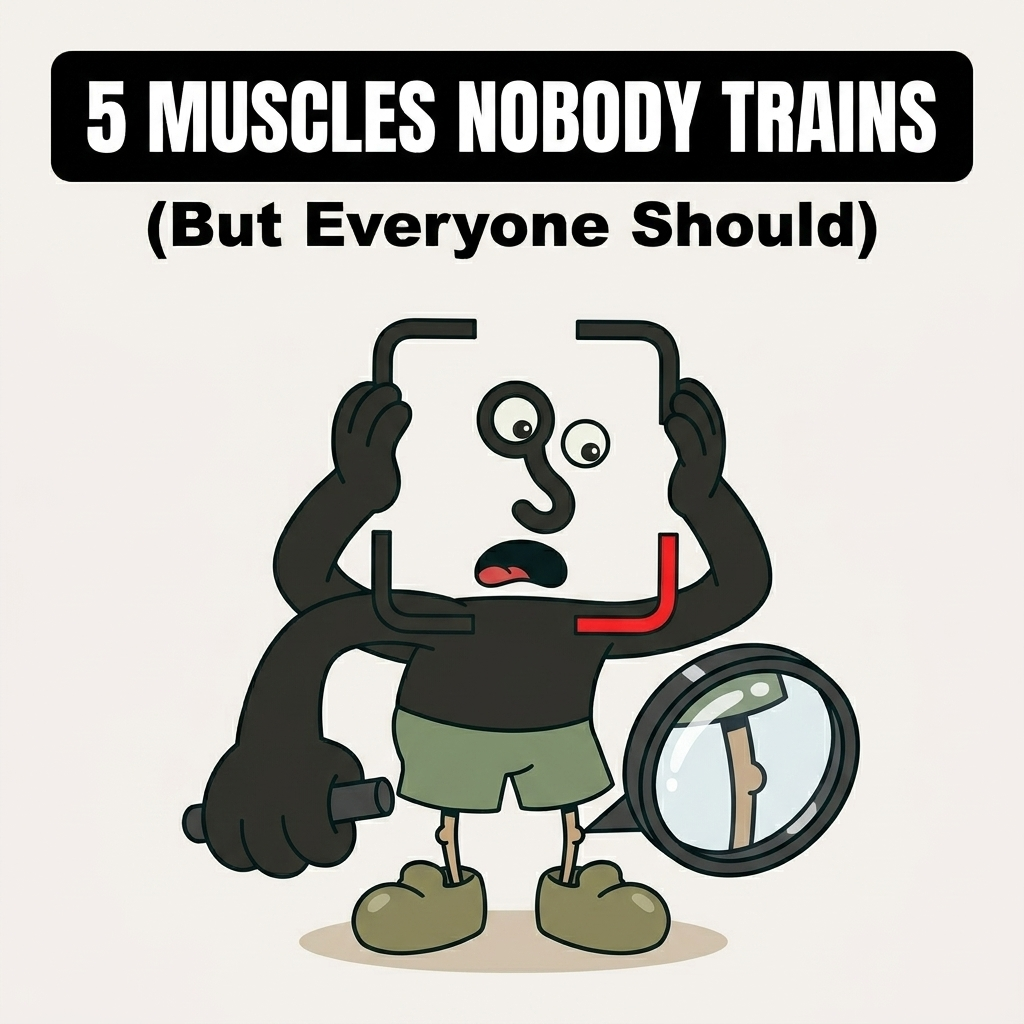
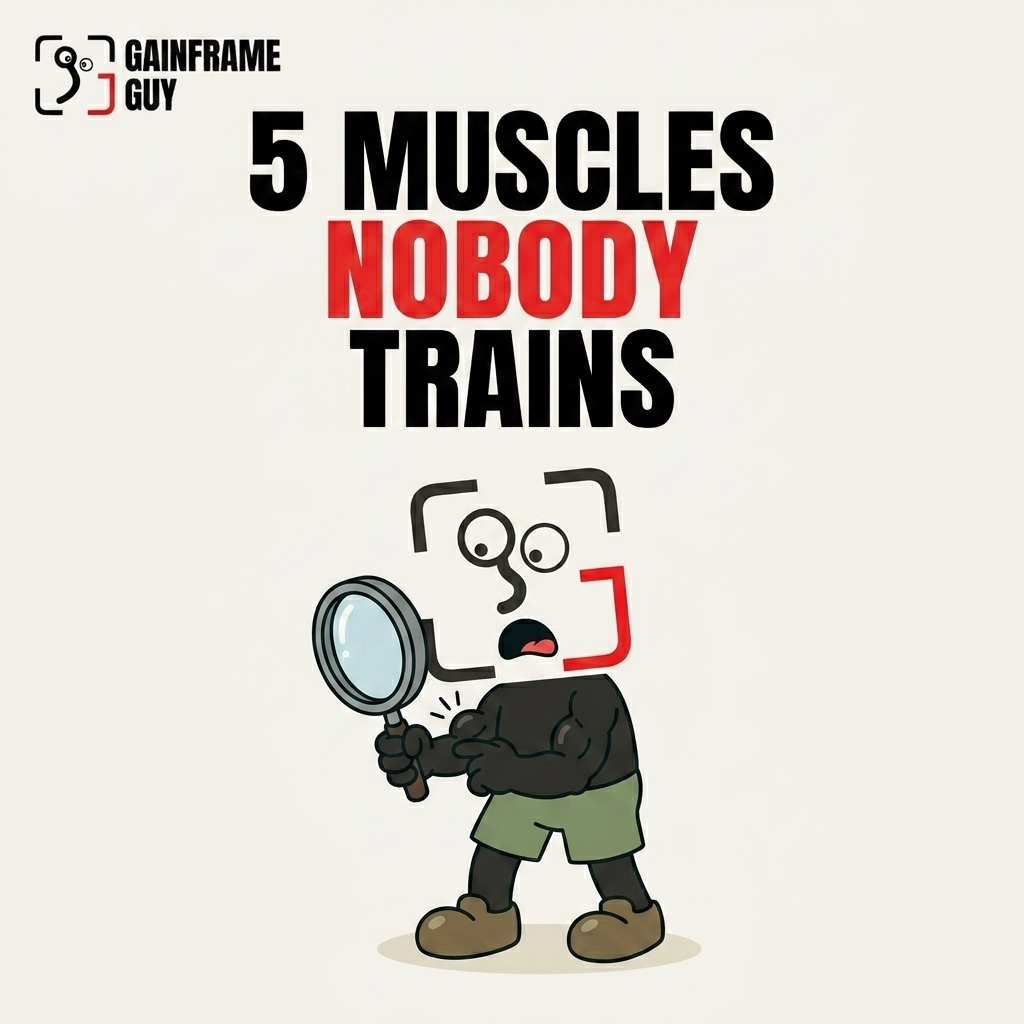
fix: redo 4 comic covers with correct red/black style + harden skill prompt
Replaced covers that had the wrong 'black pill banner' title style with the
correct format: bare Impact text directly on cream background, red accent word.

Covers fixed:
- nobody-trains (5 Muscles Nobody Trains)
- split-tier-list (The Workout Split Tier List)
- day1-self (Things I'd Tell My Day-1 Self)
- mental-game (The Mental Game of Lifting)

Skill changes:
- Added ANTI-PATTERN warning (pill banner = wrong)
- Mandated gym-bro-pipeline cover as visual reference for every new cover
- Specified exact 3-image ImagePaths for cover slides
- Strengthened 'no box/no banner' language in cover prompt template

diff --git a/.agent/skills/tiktok-carousel-generator/SKILL.md b/.agent/skills/tiktok-carousel-generator/SKILL.md
@@ -157,7 +157,10 @@ See `STYLE_GUIDE.md > Prompt Engineering Notes` for full rationale.
 For each slide, use `generate_image` with this configuration:
 
 **Required ImagePaths:**
-- **Cover Slide (3 references):** Include `gf-mascot-template.jpeg`, the scene reference, AND `gary-badge.png` for the top-left corner branding.
+- **Cover Slide (3 references, MANDATORY):** Always include these three exactly:
+  1. `gf-mascot-template.jpeg` — character design reference
+  2. `assets/tiktok/comic/gym-bro-pipeline/slide-0-cover.png` — **VISUAL STYLE REFERENCE** for the correct title text treatment (bare text on cream, no banners)
+  3. `gary-badge.png` — for the top-left corner branding badge
 - **Numbered Slides (2 references):** Include `gf-mascot-template.jpeg` and the scene reference. DO NOT include `gary-badge.png` as numbered slides do not have the badge.
 
 Example for Numbered Slides:
@@ -208,8 +211,18 @@ Clean off-white background (#F5F0EB). Clean cartoon style, thick outlines, flat 
 - **Max 4-5 words per line**, stacked into 2-3 short lines
 - Text needs moderate margins on left/right so it doesn't touch the edges and respects the crop
 
+**🚨 CRITICAL ANTI-PATTERN — READ BEFORE GENERATING:** The most common failure mode is placing the title text inside a black pill/banner/rounded rectangle. This is **WRONG**. The correct style has the text floating as raw text directly on the cream background — no shape, no box, no banner of any kind behind it. The second reference image (gym-bro-pipeline cover) is the **visual ground truth** for this style. ALWAYS include it as a reference image for covers.
+
+**Required ImagePaths for Cover Slides (3 images):**
 ```
-A cartoon illustration of this exact character from the reference images in a new scene. 
+["/Users/michael.rode/code/project/gain-frame-privacy/assets/gf-mascot/gf-mascot-template.jpeg",
+ "/Users/michael.rode/code/project/gain-frame-privacy/assets/tiktok/comic/gym-bro-pipeline/slide-0-cover.png",
+ "/Users/michael.rode/code/project/gain-frame-privacy/assets/gf-mascot/gary-badge.png"]
+```
+The `gym-bro-pipeline/slide-0-cover.png` is the **visual style reference** — it shows exactly how the title text should look (bare Impact text on cream, red accent word, GAINFRAME GUY badge top-left). Always include it.
+
+```
+A cartoon illustration of this exact GainFrame Guy character from the reference images in a new scene. 
 CRITICAL: The head is NOT a solid square — it is four separate corner brackets floating 
 in space with the background visible between them. The eyes and S-curve nose float inside 
 the bracket frame with NO background fill, NO square, NO box behind them. Copy the head 
@@ -226,16 +239,19 @@ BOTTOM 60% of the image.
 
 TITLE TEXT PLACEMENT (CRITICAL — READ CAREFULLY): 
 - The title text MUST be placed in the TOP 40% of the image.
-- The title text MUST be raw text directly on the background. DO NOT place the title inside any shape, box, or black rounded rectangle banner.
+- The title text MUST be raw text floating directly on the cream background — NO banner,
+  NO pill shape, NO rounded rectangle, NO black box, NO background shape of ANY kind
+  behind the title text. TEXT FLOATS BARE ON THE BACKGROUND. See the gym-bro-pipeline
+  reference image — copy that exact title text treatment.
 - The title text MUST be centered horizontally, taking up around 75% to 80% of the image width.
 - Leave moderate margins on both the left and right sides so it doesn't touch the edges.
 - Stack the title into 2-3 SHORT lines (max 4-5 words per line), centered.
-- Position the text block vertically centered within the top 40% or slightly above center.
-- The title reads "[COVER TITLE]" with the word "[ACCENT WORD]" in red (#E53935). 
-- Very prominent bold text, eye-catching.
+- The title reads "[COVER TITLE]" with the word "[ACCENT WORD]" in red (#E53935).
+  All other words are in near-black (#1A1A1A).
+- Very prominent bold text, eye-catching and large.
 
 TYPOGRAPHY: Use bold Impact-style condensed sans-serif font for the title (ALL CAPS). 
-NO handwritten, script, or decorative fonts.
+NO handwritten, script, or decorative fonts. NO text inside any box or shape.
 
 Clean off-white background (#F5F0EB). Clean cartoon style, thick outlines, flat colors. 
 4:5 TikTok format (1080x1350). No watermarks except the GainFrame Guy badge.
